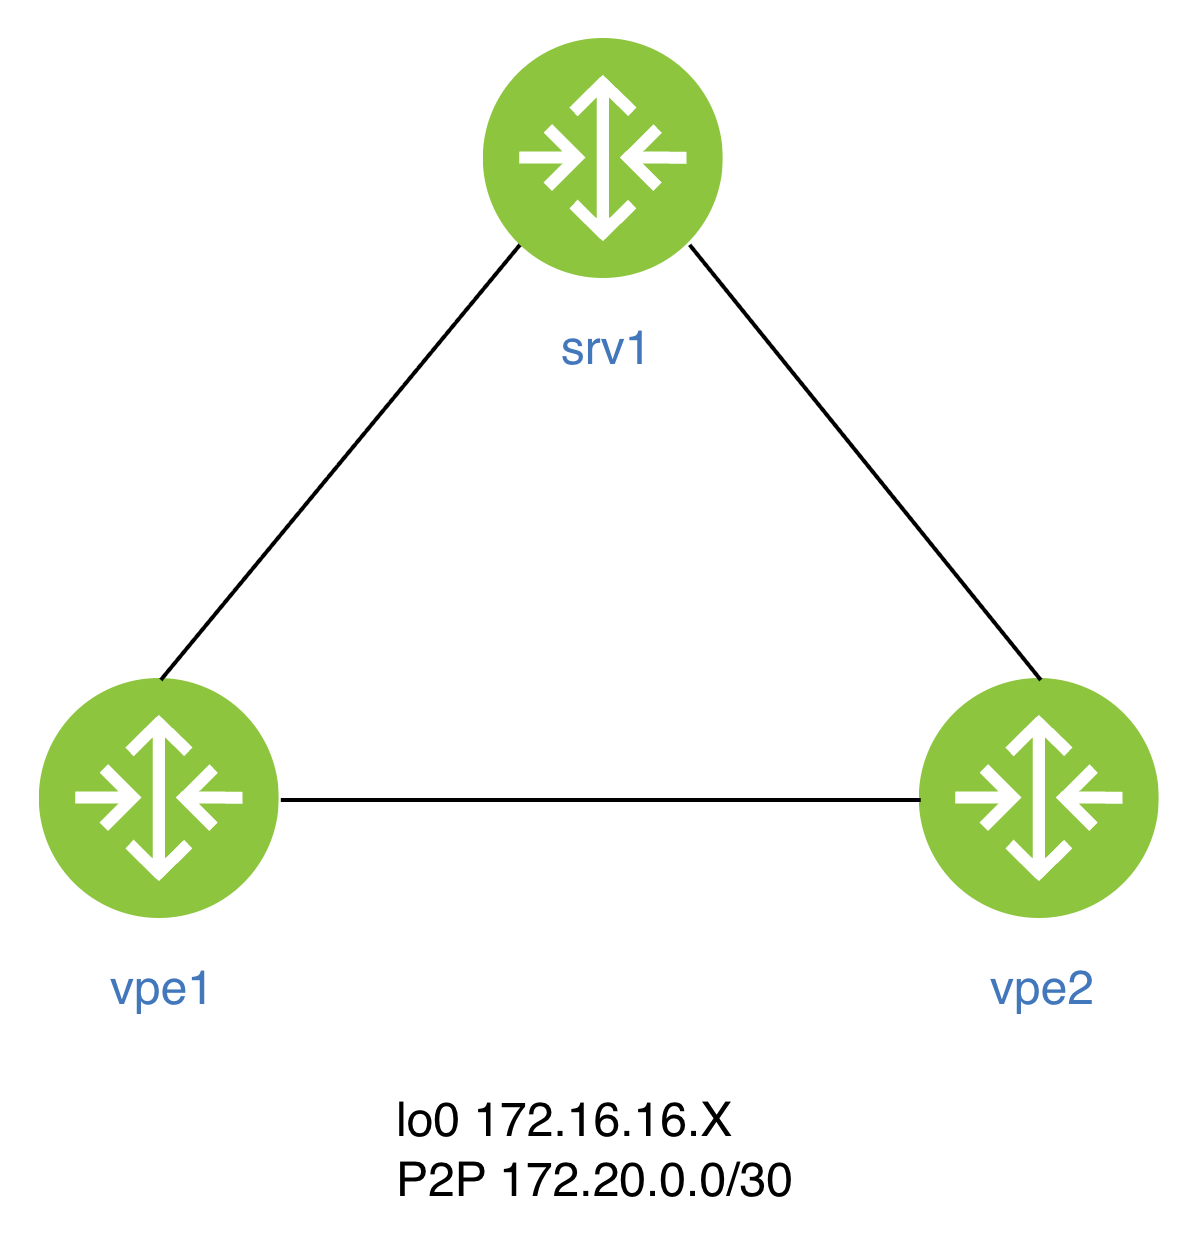
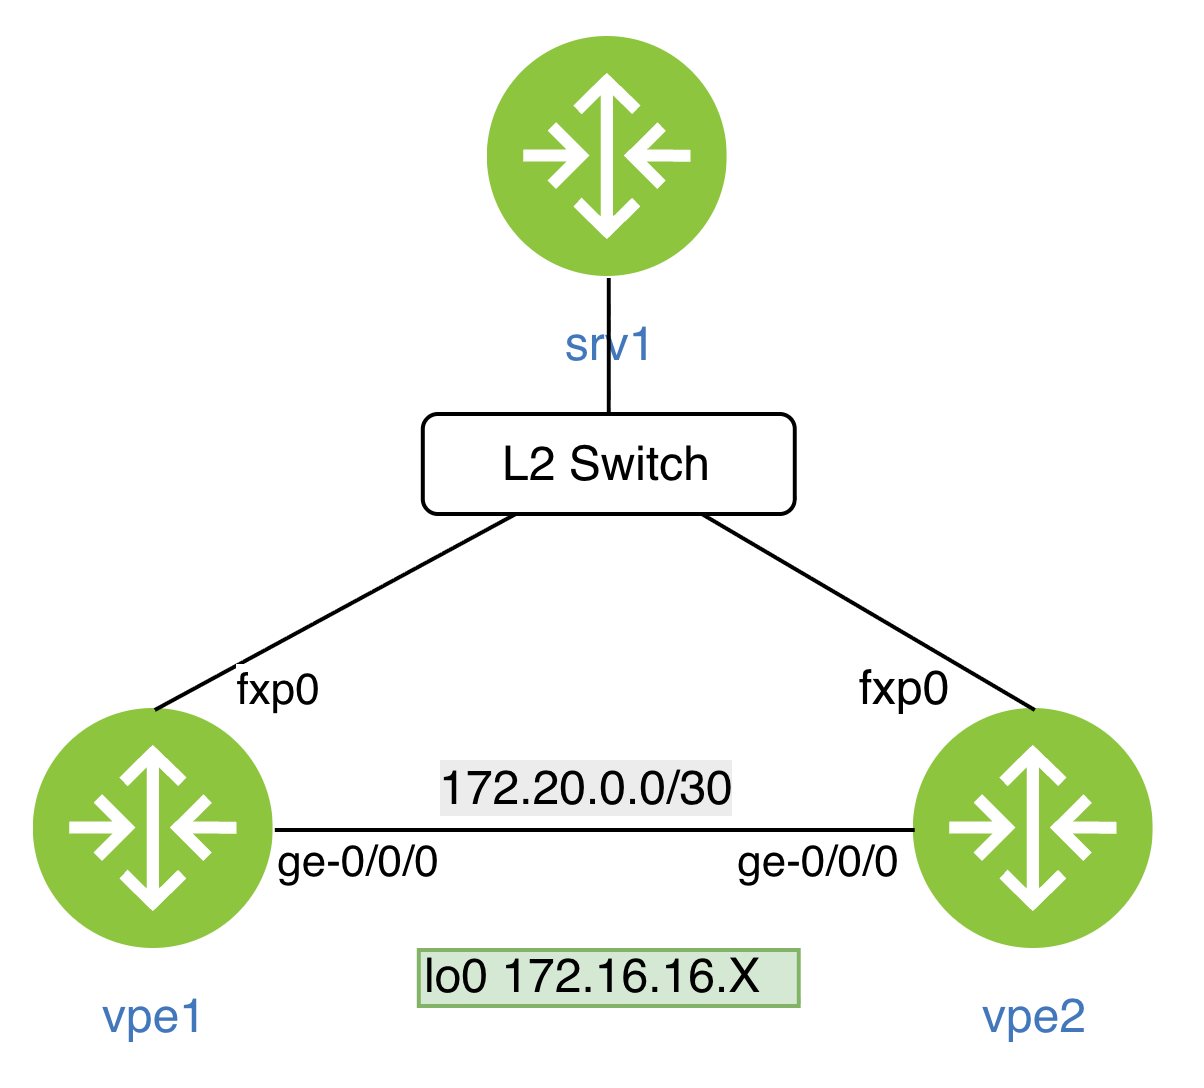
resize image

diff --git a/system/1-sampling/README.md b/system/1-sampling/README.md
@@ -1,10 +1,10 @@
-# Lab: Traffic Sampling & Flow Collection
+# Traffic Sampling & Flow Collection
 
 ## Traffic Sampling and Flow Collection
 
-![alt text](image.png)
+<img src="image.png" alt="1-sampling" style="width: 30%; height: auto;" />
 
-### IPv4
+### 1. IPv4
 1. Configure IPv4 traffic sampling at a rate of **1 out of every 50 packets**.
 2. Apply IPv4 traffic sampling to interface `ge-0/0/0.0` such that both **ingress and egress** traffic on this interface are sampled.
 3. **Collector Configuration:**
@@ -17,7 +17,7 @@
 #### Verification
 `show interface xyz extensive`
 
-### IPv6
+### 2. IPv6
 
 Configure bidirectional IPv6 traffic sampling on interface ge-0/0/0.x using inline sampling.
 
@@ -69,7 +69,7 @@ show services accounting flow inline-jflow fpc-slot 0
 > **Note:** Output might show no traffic because 1 out of 1000 packets are sampled.
 
 
-### Secure Streaming Telemetry
+### 3. Secure Streaming Telemetry
 1. Ensure vpe1 can serve secure streaming telemetry data using gRPC on port 43123.
 2. Use a local certificate named jncie_cert, allow up to 15 maximum connections, and allow access only from a host with IP address 10.10.1.1
 
